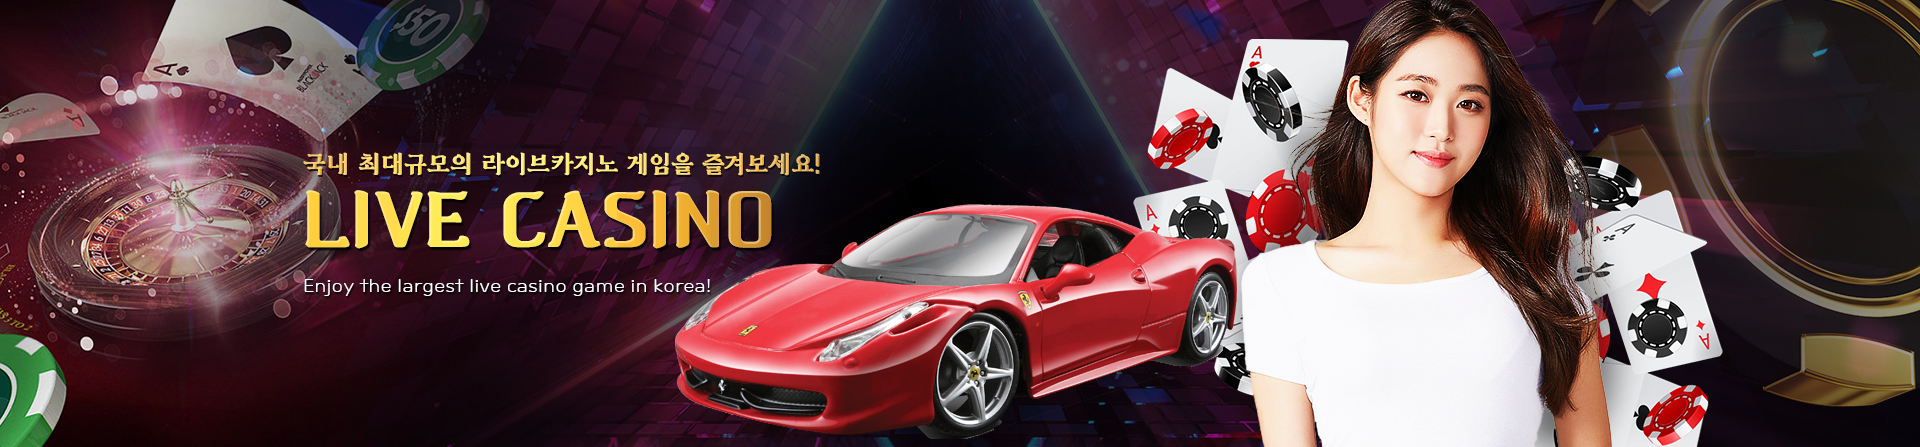
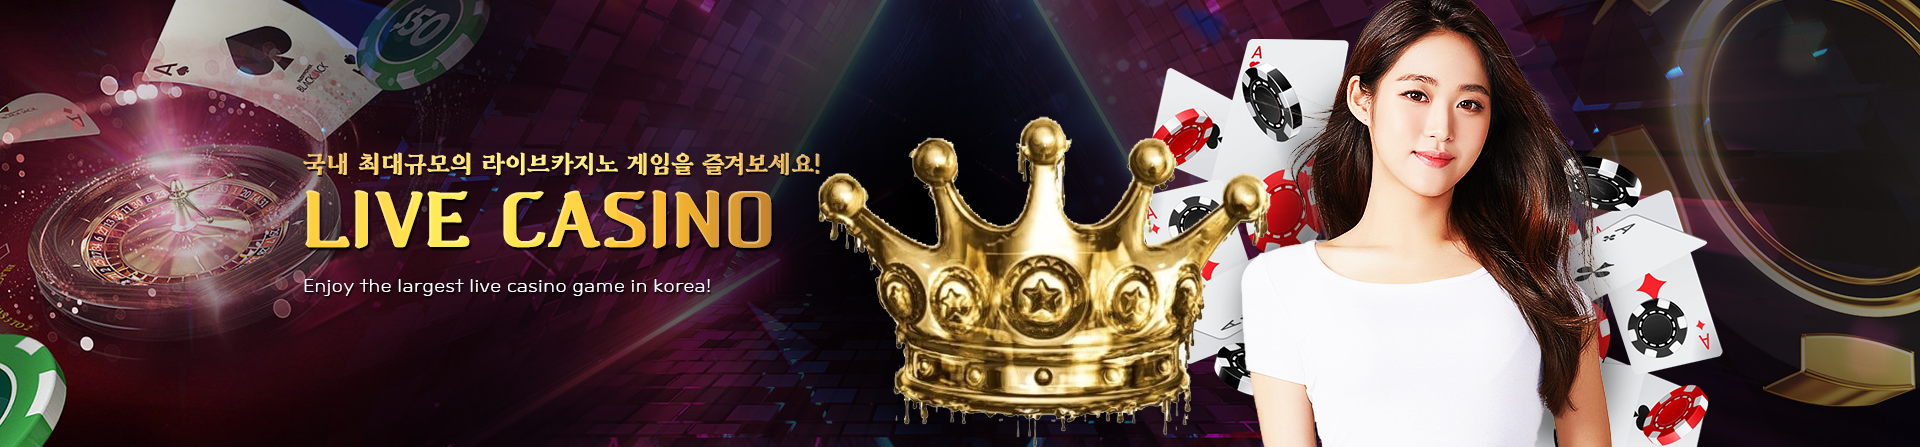
update ferrari

Changed region(s): [[0.3438, 0.2617, 0.6875, 0.9888]]

diff --git a/resources/views/frontend/ferrari/layouts/partials/banner.blade.php b/resources/views/frontend/ferrari/layouts/partials/banner.blade.php
@@ -15,8 +15,8 @@
     data-cycle-pager-event="mouseover"
     data-cycle-slides="> a">
       <a href="#"><img src="/frontend/ferrari/images/slideshow1.png?v=202301301150"></a>
-      <a href="#"><img src="/frontend/ferrari/images/slideshow2.png?v=202301301150"></a>
-      <a href="#"><img src="/frontend/ferrari/images/slideshow3.png?v=202301301150"></a>            
+      <a href="#"><img src="/frontend/kdior/images/slideshow2.png?v=202301301150"></a>
+      <a href="#"><img src="/frontend/kdior/images/slideshow3.png?v=202301301150"></a>            
 
       <!-- 화살표 스타일1 -->
       <div class="arrow_wrap">
